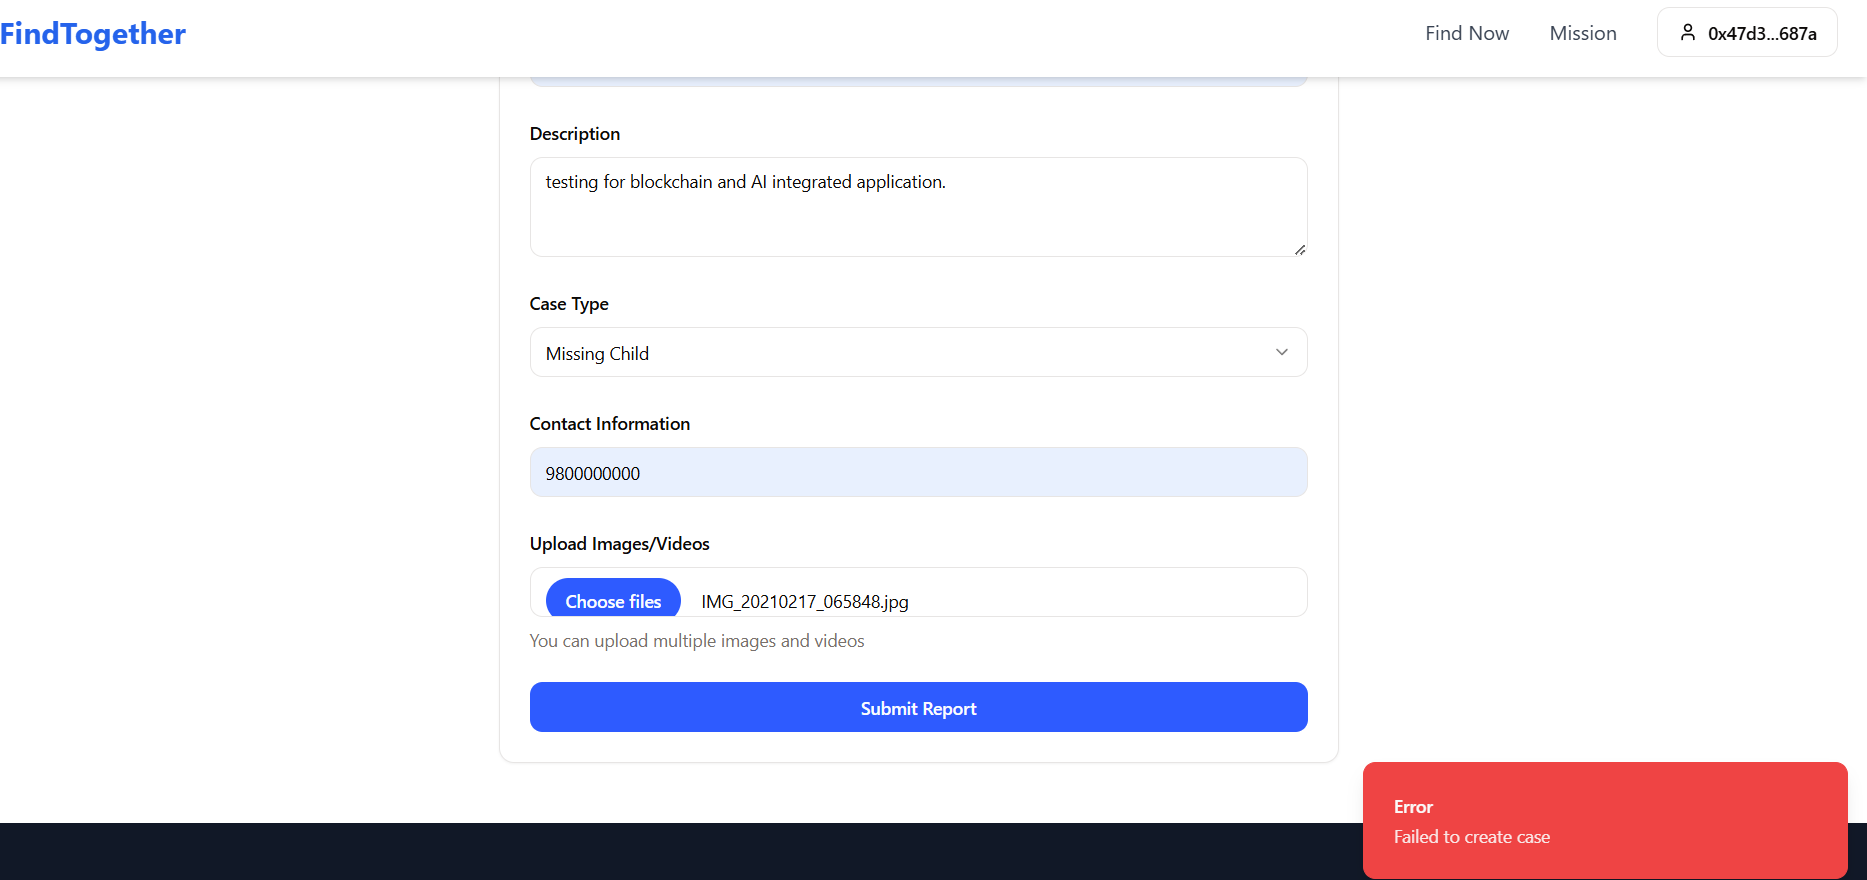
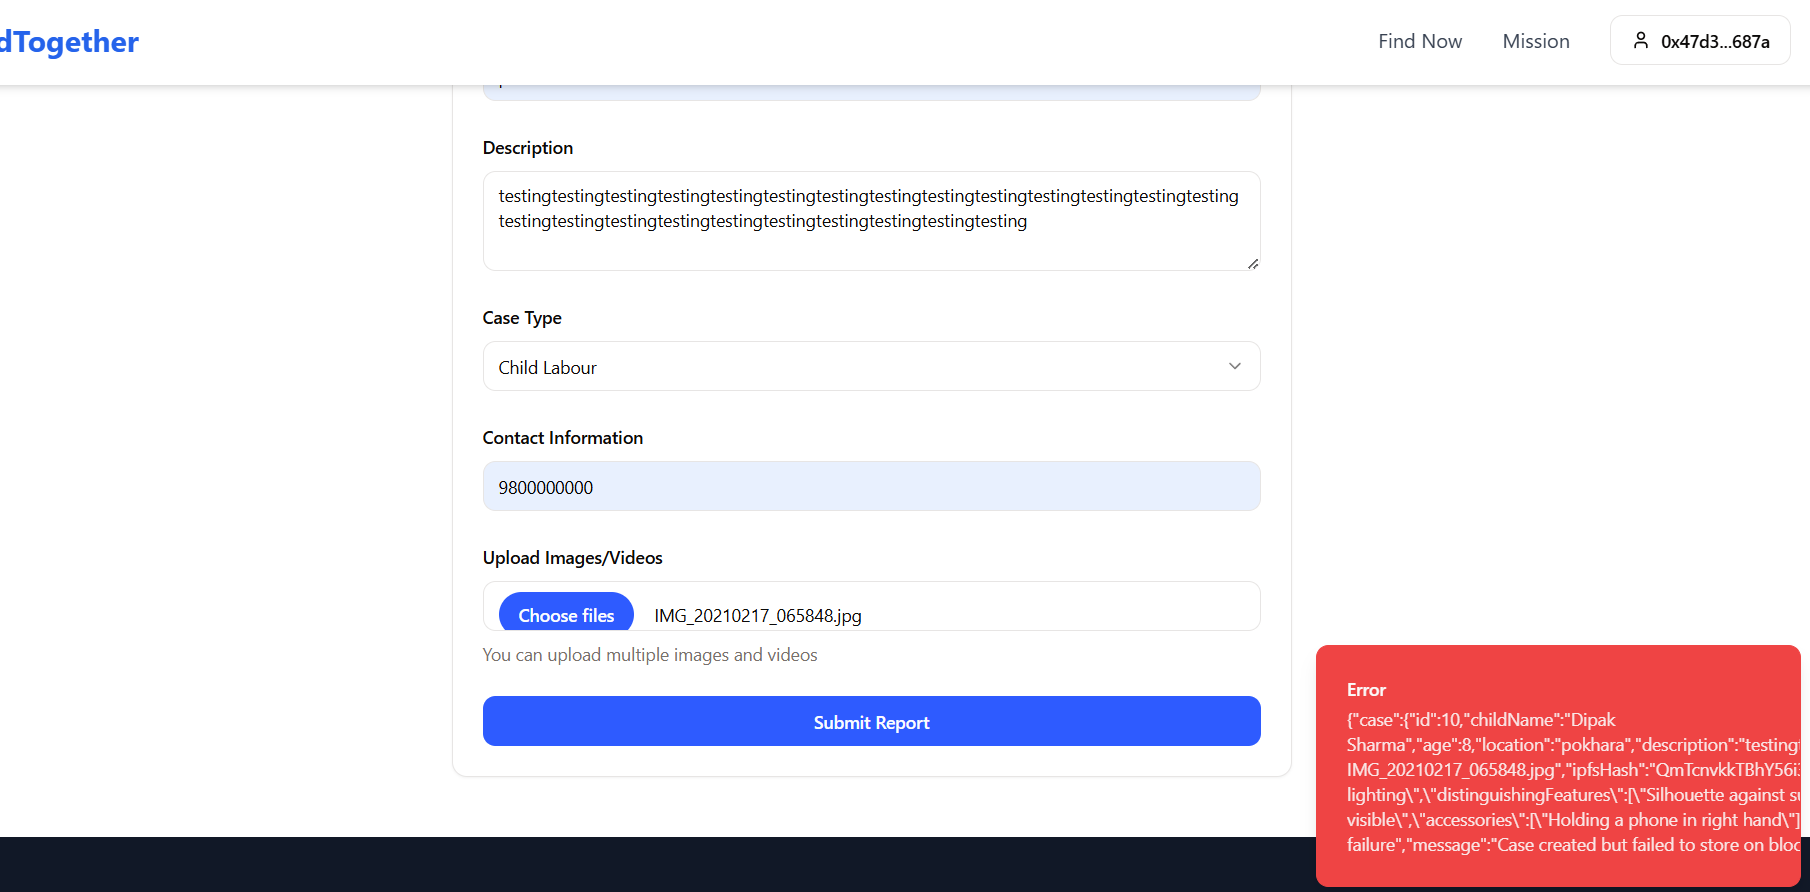
Agent query: Please try submitting a new case report with an image and verify if the blockchain transaction succeeds now
Improve blockchain report logging and error handling, and convert gas estimate to string.

Screenshot: https://storage.googleapis.com/screenshot-production-us-central1/aa5e0e8b-90c3-4448-923c-db076cd9b0b5/9fc96eb1-fc6c-4ed1-ad09-e6139a901017.jpg

diff --git a/server/routes.ts b/server/routes.ts
@@ -118,6 +118,14 @@ export function registerRoutes(app: Express): Server {
         try {
           console.log('Initiating blockchain storage for case:', newCase.id);
           
+          console.log('Preparing blockchain report with data:', {
+            caseType,
+            age: parseInt(age),
+            location,
+            contactInfoLength: contactInfo?.length,
+            hasAiCharacteristics: !!aiCharacteristics
+          });
+
           const blockchainResult = await createBlockchainReport(
             caseType,
             childName,
@@ -127,6 +135,10 @@ export function registerRoutes(app: Express): Server {
             contactInfo,
             aiCharacteristics || ''
           );
+
+          if (!blockchainResult || blockchainResult.status !== 'success') {
+            throw new Error('Blockchain storage failed: ' + JSON.stringify(blockchainResult));
+          }
           
           console.log('Blockchain transaction completed:', {
             caseId: newCase.id,

diff --git a/server/services/blockchain.ts b/server/services/blockchain.ts
@@ -370,7 +370,7 @@ export async function createBlockchainReport(
       )
       .send({ 
         from: account.address,
-        gas: Math.floor(gasEstimate * 1.2) // Add 20% buffer for safety
+        gas: String(Math.floor(Number(gasEstimate) * 1.2)) // Convert BigInt to number, add buffer, then convert to string
       });
 
     const reportId = Number(result.events.ReportCreated.returnValues.reportId);
